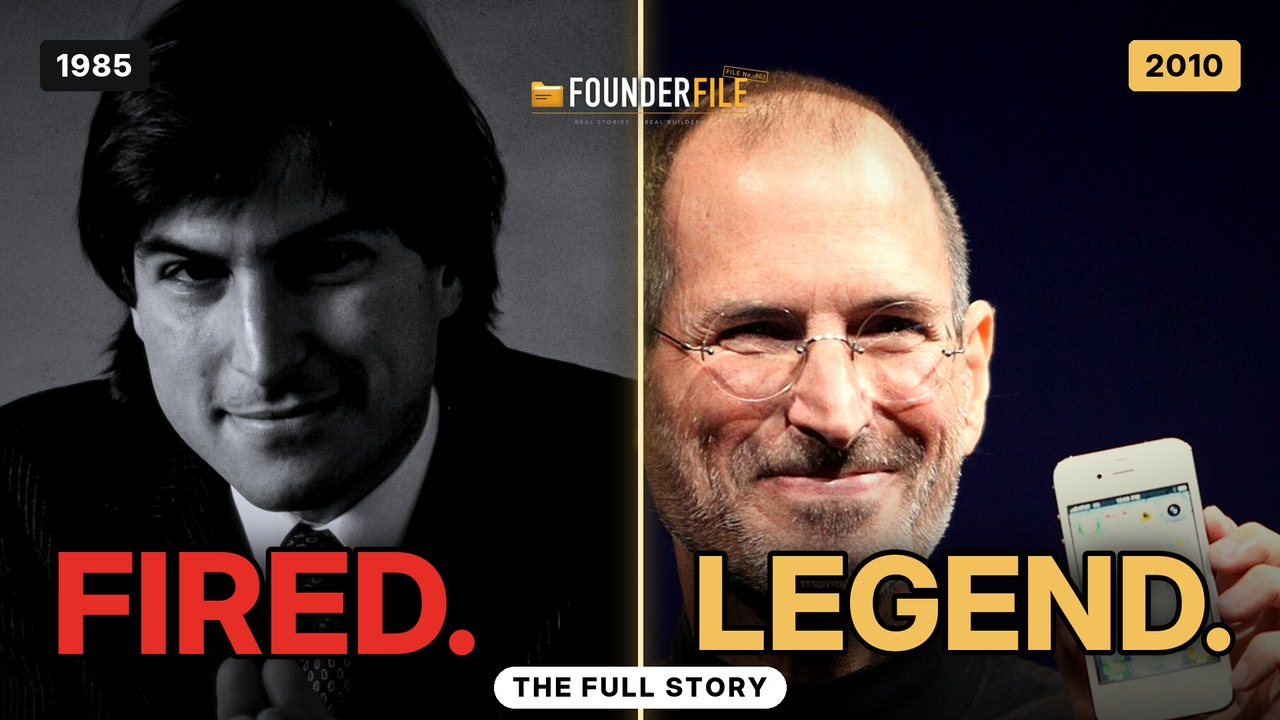
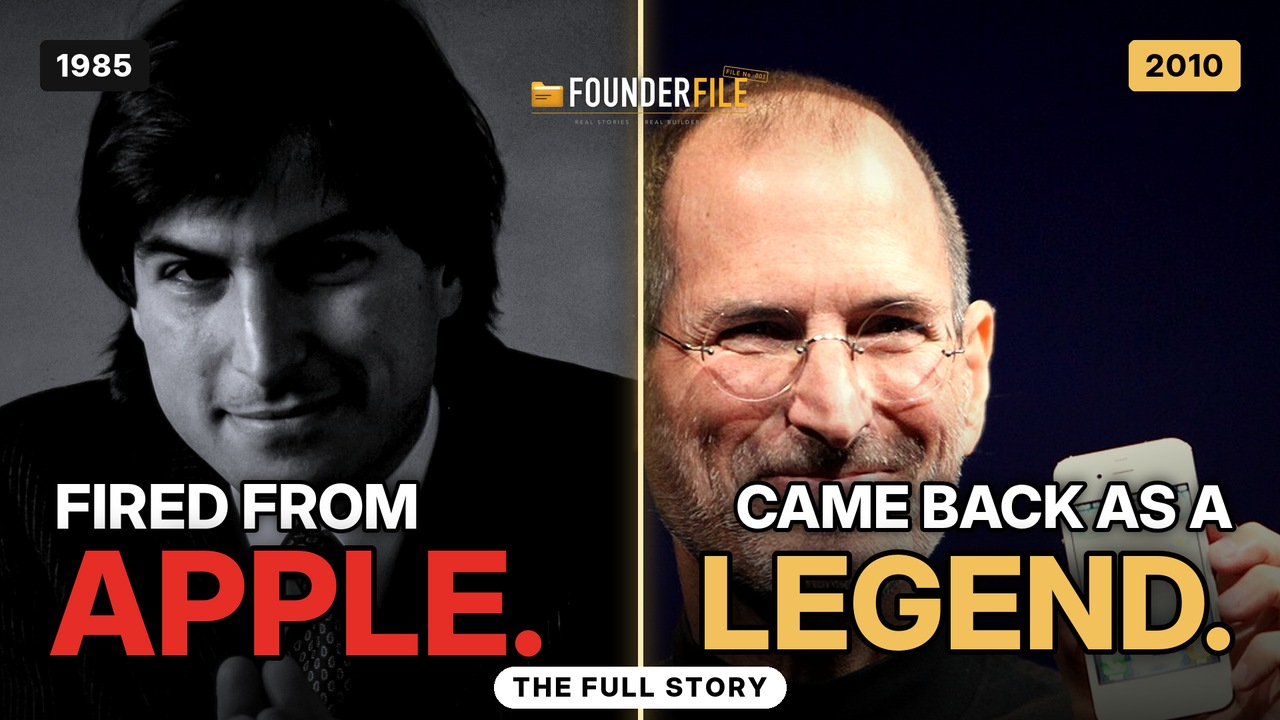
Add 'Fired from Apple' / 'Came back as a legend' text to split thumbnail
Claude-Session: https://claude.ai/code/session_01PWFXBn3PiQuD8bkB8roEX4

diff --git a/video_output/steve_jobs_full/source/thumb_split.py b/video_output/steve_jobs_full/source/thumb_split.py
@@ -28,7 +28,7 @@ def make(diagonal=True, name="thumb_full_documentary_split"):
     # vignette + darker bottom band for the text
     r = np.sqrt(((xx - W / 2) / (W / 2)) ** 2 + ((yy - H / 2) / (H / 2)) ** 2)
     img *= (1 - 0.40 * np.clip(r - 0.55, 0, 1))[..., None]
-    img *= (1 - 0.62 * np.clip((yy - 640) / 440, 0, 1) ** 1.2)[..., None]
+    img *= (1 - 0.68 * np.clip((yy - 560) / 520, 0, 1) ** 1.1)[..., None]
     base = Image.fromarray(np.clip(img, 0, 255).astype(np.uint8)).convert("RGBA")
     # glowing gold seam
     glow = Image.new("RGBA", (W, H), (0, 0, 0, 0)); gd = ImageDraw.Draw(glow)
@@ -39,9 +39,11 @@ def make(diagonal=True, name="thumb_full_documentary_split"):
     badge(base, 60, 60, "1985", fill=(20, 20, 20), col=WHITE, size=46)
     badge(base, W - 60 - (RL.tw("2010", "xb", 46, 3) + 50), 60, "2010", fill=GOLD, col=BLACK, size=46)
     # big words
-    fs = fit("FIRED.", "xb", 210, 760)
-    put(base, RL.stext("FIRED.", "xb", fs, RED, stroke=8), 70, 905, "lm")
-    fs2 = fit("LEGEND.", "xb", 210, 820)
+    put(base, RL.stext("FIRED FROM", "xb", fit("FIRED FROM", "xb", 92, 700), WHITE, stroke=6), 76, 760, "lm")
+    fs = fit("APPLE.", "xb", 220, 760)
+    put(base, RL.stext("APPLE.", "xb", fs, RED, stroke=8), 66, 905, "lm")
+    put(base, RL.stext("CAME BACK AS A", "xb", fit("CAME BACK AS A", "xb", 92, 760), WHITE, stroke=6), W - 66, 760, "rm")
+    fs2 = fit("LEGEND.", "xb", 220, 820)
     put(base, RL.stext("LEGEND.", "xb", fs2, GOLD, stroke=8), W - 60, 905, "rm")
     # centre seam label + logo
     mid_x = (top_x + bot_x) / 2
